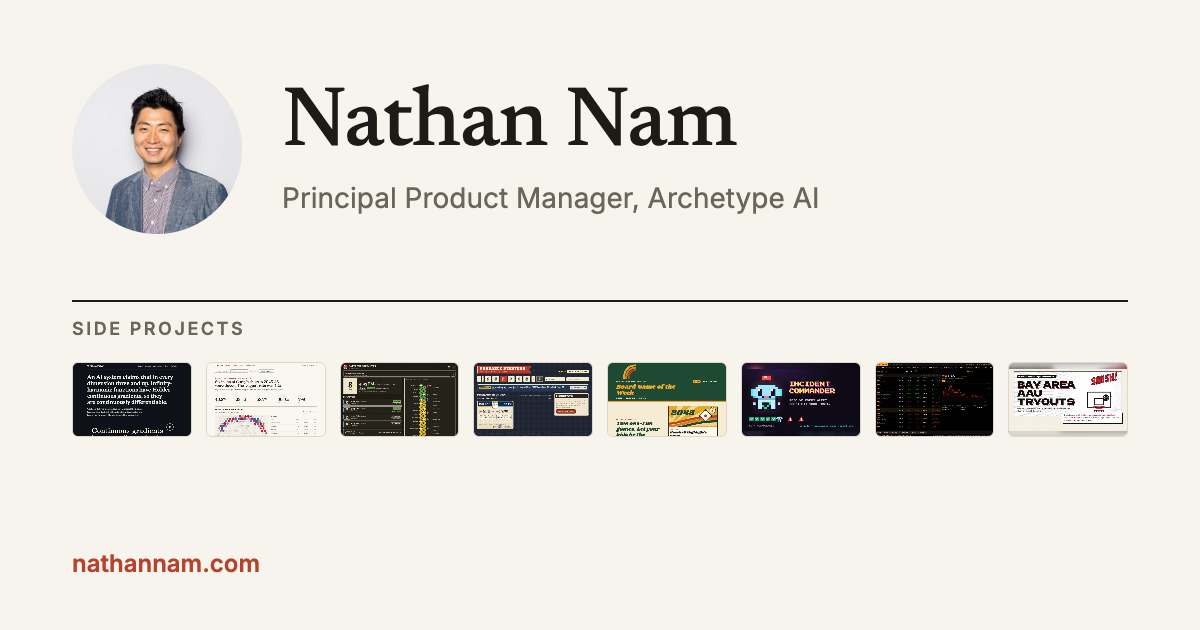
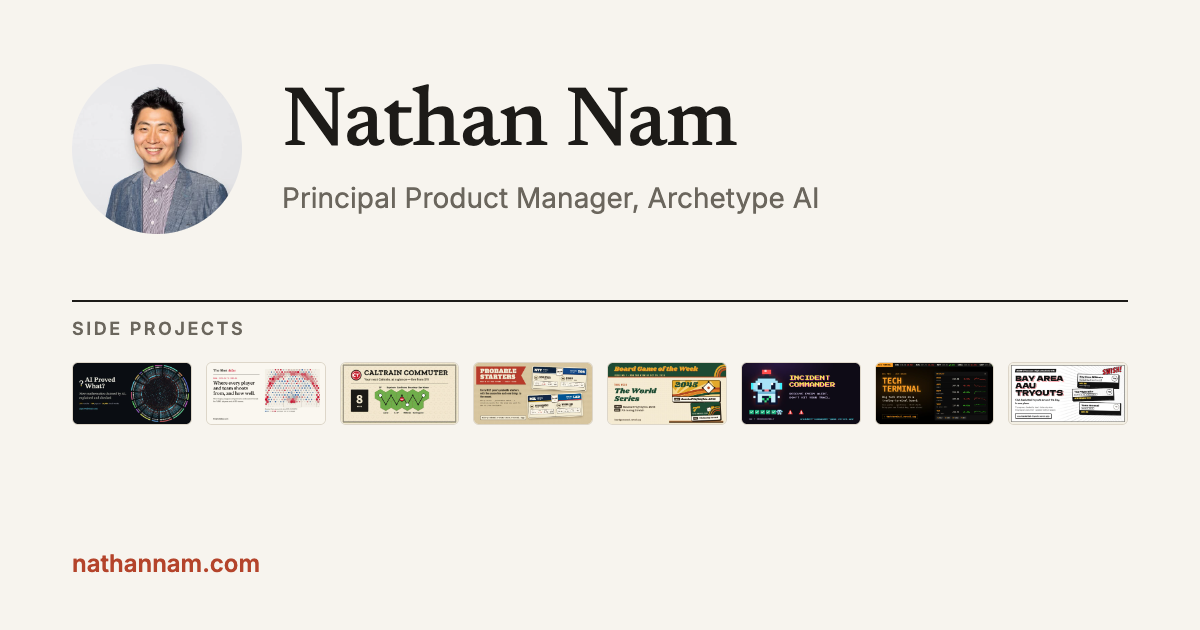
Use each project's poster share image as its card
Every side project now has a 1200×630 poster share image, so the cards show
those at their own shape instead of mixing screenshots and blurred posters.

Changed region(s): [[0.0617, 0.573, 0.9558, 0.6937]]

diff --git a/README.md b/README.md
@@ -9,15 +9,15 @@ My personal website: a short profile and the side projects I build and keep runn
 One static page, built with [Astro](https://astro.build) and served by Vercel.
 
 - `src/pages/index.astro`: the page (bio, links, styles).
-- `src/data/projects.json`: the side projects. Add one here, then rerun `npm run brand -- --shots`. A project with `"shot": "og"` uses its own share image as the card instead of a screenshot (good for narrow pages like a game).
+- `src/data/projects.json`: the side projects. Add one here, then rerun `npm run brand -- --shots`. Each card is that project's own 1200×630 share image (its og:image), so every project needs a poster-style one first.
 - `src/data/site.mjs`: the site's address, used for the share tags and the share image.
-- `scripts/brand/make.mjs`: regenerates the project screenshots, the favicon set and the 1200×630 share image (`public/og.png`). Needs Google Chrome and `npm i --no-save puppeteer-core@23.11.1`.
+- `scripts/brand/make.mjs`: regenerates the project cards, the favicon set and the 1200×630 share image (`public/og.png`). Needs Google Chrome and `npm i --no-save puppeteer-core@23.11.1`.
 
 ```sh
 npm install
 npm run dev      # http://localhost:4321
 npm run build    # static files in dist/
-npm run brand    # screenshots + icons + share image
+npm run brand    # cards + icons + share image
 ```
 
 Page views are counted with Vercel Web Analytics (no cookies).
